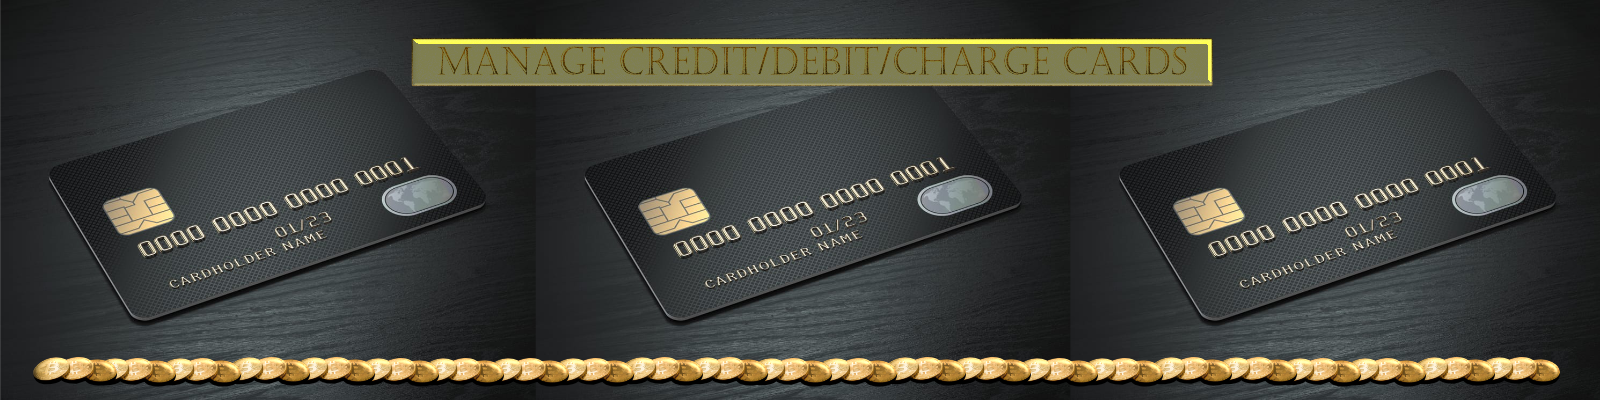
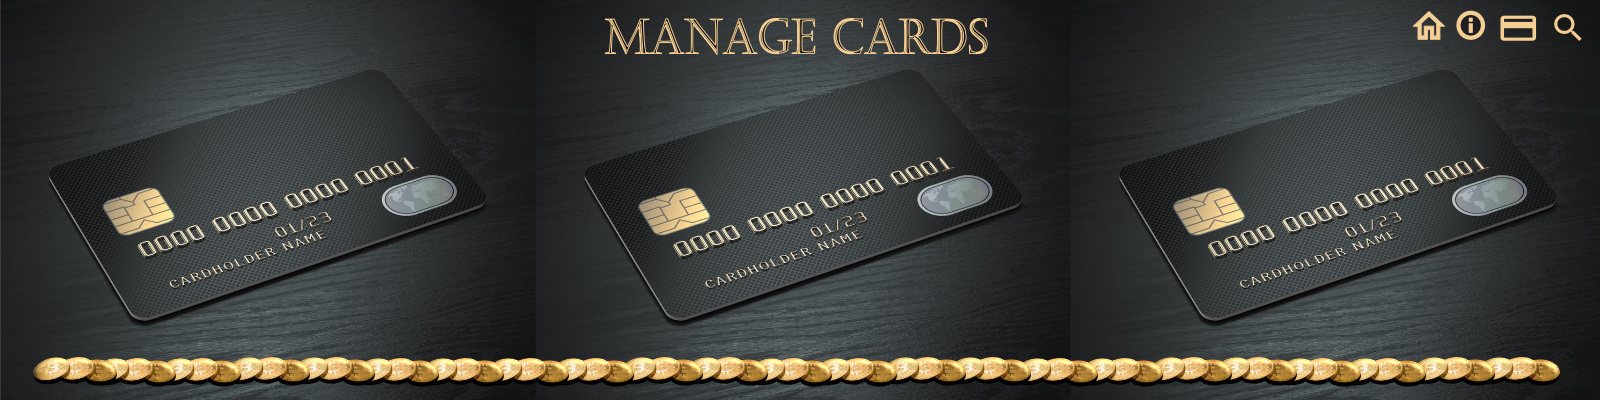
added show method and show view

Changed region(s): [[0.25, 0.03, 0.7812, 0.24], [0.875, 0.03, 1.0, 0.12]]

diff --git a/app/assets/stylesheets/application.css b/app/assets/stylesheets/application.css
@@ -27,7 +27,27 @@ a {
     letter-spacing: -1px;
 }
 
+p {
+    font-family: 'odudo mono', 'Gill Sans MT', Calibri, 'Trebuchet MS', sans-serif;
+    text-decoration: none;
+    color: goldenrod;
+    letter-spacing: -1px;
+    margin: 1px;
+}
+
+h1 {
+    font-family: 'Calibri Light', 'Gill Sans MT', Calibri, 'Trebuchet MS', sans-serif;
+    text-decoration: none;
+    color: goldenrod;
+    letter-spacing: -1px;
+}
+
 a:hover {
+    background: goldenrod;
+    color: #202020
+}
+
+p:hover {
     background: goldenrod;
     color: #202020
 }

diff --git a/config/routes.rb b/config/routes.rb
@@ -1,4 +1,5 @@
 Rails.application.routes.draw do
   root "pages#home" 
   get 'about', to: 'pages#about'
+  resources :cards
   end

diff --git a/app/controllers/cards_controller.rb b/app/controllers/cards_controller.rb
@@ -1,0 +1,5 @@
+class CardsController < ApplicationController
+  def show
+    @card = Card.find(params[:id])
+  end
+end
